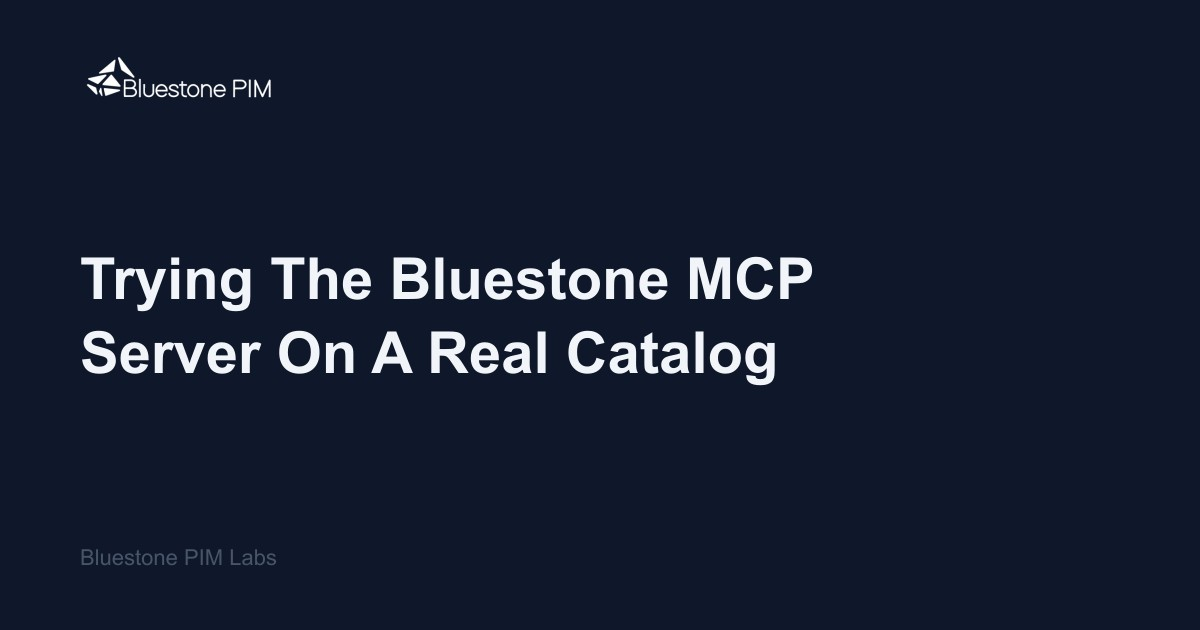
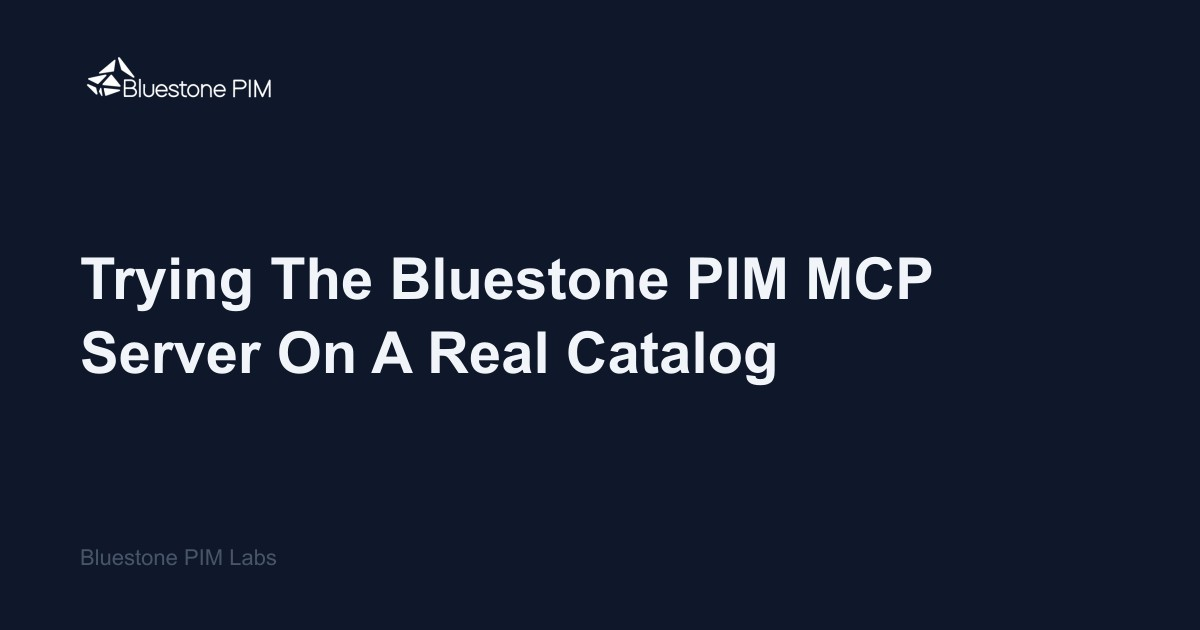
Bluestone>Bluestone PIM

Changed region(s): [[0.555, 0.3921, 0.8017, 0.4825]]

diff --git a/blog/trying-the-bluestone-mcp-server-on-a-real-catalog/index.html b/blog/trying-the-bluestone-mcp-server-on-a-real-catalog/index.html
@@ -3,23 +3,23 @@
 <head>
   <meta charset="utf-8">
   <meta name="viewport" content="width=device-width, initial-scale=1">
-  <title>Trying The Bluestone MCP Server On A Real Catalog — Bluestone PIM Labs</title>
-  <meta name="description" content="What happens when an AI assistant can browse Bluestone catalogs, compare draft and published data, switch language context, and fetch product images.">
+  <title>Trying The Bluestone PIM MCP Server On A Real Catalog — Bluestone PIM Labs</title>
+  <meta name="description" content="What happens when an AI assistant can browse Bluestone PIM catalogs, compare draft and published data, switch language context, and fetch product images.">
   <link rel="canonical" href="https://labs.bluestonepim.com/blog/trying-the-bluestone-mcp-server-on-a-real-catalog">
   <meta property="og:type" content="article">
   <meta property="og:site_name" content="Bluestone PIM Labs">
-  <meta property="og:title" content="Trying The Bluestone MCP Server On A Real Catalog — Bluestone PIM Labs">
-  <meta property="og:description" content="What happens when an AI assistant can browse Bluestone catalogs, compare draft and published data, switch language context, and fetch product images.">
+  <meta property="og:title" content="Trying The Bluestone PIM MCP Server On A Real Catalog — Bluestone PIM Labs">
+  <meta property="og:description" content="What happens when an AI assistant can browse Bluestone PIM catalogs, compare draft and published data, switch language context, and fetch product images.">
   <meta property="og:url" content="https://labs.bluestonepim.com/blog/trying-the-bluestone-mcp-server-on-a-real-catalog">
   <meta property="og:image" content="https://labs.bluestonepim.com/public/posts/trying-the-bluestone-mcp-server-on-a-real-catalog/og-image.jpg">
   <meta name="twitter:card" content="summary_large_image">
-  <meta name="twitter:title" content="Trying The Bluestone MCP Server On A Real Catalog — Bluestone PIM Labs">
-  <meta name="twitter:description" content="What happens when an AI assistant can browse Bluestone catalogs, compare draft and published data, switch language context, and fetch product images.">
+  <meta name="twitter:title" content="Trying The Bluestone PIM MCP Server On A Real Catalog — Bluestone PIM Labs">
+  <meta name="twitter:description" content="What happens when an AI assistant can browse Bluestone PIM catalogs, compare draft and published data, switch language context, and fetch product images.">
   <meta name="twitter:image" content="https://labs.bluestonepim.com/public/posts/trying-the-bluestone-mcp-server-on-a-real-catalog/og-image.jpg">
   <meta property="og:locale" content="en_US">
   <meta property="article:published_time" content="2026-04-28T12:00:00.000Z">
   <meta property="article:modified_time" content="2026-04-28T12:00:00.000Z">
-  <script type="application/ld+json">{"@context":"https://schema.org","@type":"BlogPosting","headline":"Trying The Bluestone MCP Server On A Real Catalog","url":"https://labs.bluestonepim.com/blog/trying-the-bluestone-mcp-server-on-a-real-catalog","image":"https://labs.bluestonepim.com/public/posts/trying-the-bluestone-mcp-server-on-a-real-catalog/og-image.jpg","publisher":{"@type":"Organization","name":"Bluestone PIM Labs","url":"https://labs.bluestonepim.com/"},"mainEntityOfPage":{"@type":"WebPage","@id":"https://labs.bluestonepim.com/blog/trying-the-bluestone-mcp-server-on-a-real-catalog"},"description":"What happens when an AI assistant can browse Bluestone catalogs, compare draft and published data, switch language context, and fetch product images.","datePublished":"2026-04-28T12:00:00.000Z","dateModified":"2026-04-28T12:00:00.000Z"}</script>
+  <script type="application/ld+json">{"@context":"https://schema.org","@type":"BlogPosting","headline":"Trying The Bluestone PIM MCP Server On A Real Catalog","url":"https://labs.bluestonepim.com/blog/trying-the-bluestone-mcp-server-on-a-real-catalog","image":"https://labs.bluestonepim.com/public/posts/trying-the-bluestone-mcp-server-on-a-real-catalog/og-image.jpg","publisher":{"@type":"Organization","name":"Bluestone PIM Labs","url":"https://labs.bluestonepim.com/"},"mainEntityOfPage":{"@type":"WebPage","@id":"https://labs.bluestonepim.com/blog/trying-the-bluestone-mcp-server-on-a-real-catalog"},"description":"What happens when an AI assistant can browse Bluestone PIM catalogs, compare draft and published data, switch language context, and fetch product images.","datePublished":"2026-04-28T12:00:00.000Z","dateModified":"2026-04-28T12:00:00.000Z"}</script>
   <link rel="icon" type="image/png" href="/public/bluestone_pim_logo.png">
   <link id="hljs-light" rel="stylesheet" href="https://cdnjs.cloudflare.com/ajax/libs/highlight.js/11.9.0/styles/github.min.css">
   <link id="hljs-dark"  rel="stylesheet" href="https://cdnjs.cloudflare.com/ajax/libs/highlight.js/11.9.0/styles/github-dark.min.css" disabled>
@@ -118,15 +118,15 @@
     </a>
 
     <article>
-      <div class="mb-10"><img src="/public/posts/trying-the-bluestone-mcp-server-on-a-real-catalog/banner.webp" alt="Trying The Bluestone MCP Server On A Real Catalog" class="w-full rounded-xl object-cover border border-slate-200 dark:border-slate-700/60" style="max-height:420px;" loading="eager"></div>
+      <div class="mb-10"><img src="/public/posts/trying-the-bluestone-mcp-server-on-a-real-catalog/banner.webp" alt="Trying The Bluestone PIM MCP Server On A Real Catalog" class="w-full rounded-xl object-cover border border-slate-200 dark:border-slate-700/60" style="max-height:420px;" loading="eager"></div>
       <header class="mb-10">
         <div class="flex flex-wrap items-center gap-2 mb-4">
           <span class="text-sm text-slate-400 dark:text-slate-500">28 Apr 2026</span><span class="text-slate-300 dark:text-slate-700">·</span>
         <span class="text-sm text-slate-400 dark:text-slate-500">8 min read</span>
         <span class="text-slate-300 dark:text-slate-700">·</span><span class="inline-block text-xs font-semibold px-2 py-0.5 rounded bg-blue-50 dark:bg-blue-950/50 text-blue-700 dark:text-blue-300 uppercase tracking-wide">mcp</span><span class="inline-block text-xs font-semibold px-2 py-0.5 rounded bg-blue-50 dark:bg-blue-950/50 text-blue-700 dark:text-blue-300 uppercase tracking-wide">ai</span><span class="inline-block text-xs font-semibold px-2 py-0.5 rounded bg-blue-50 dark:bg-blue-950/50 text-blue-700 dark:text-blue-300 uppercase tracking-wide">examples</span>
         </div>
-        <h1 class="text-3xl sm:text-4xl font-bold text-slate-900 dark:text-slate-100 leading-tight mb-4">Trying The Bluestone MCP Server On A Real Catalog</h1>
-        <p class="text-lg text-slate-500 dark:text-slate-400 leading-relaxed">What happens when an AI assistant can browse Bluestone catalogs, compare draft and published data, switch language context, and fetch product images.</p>
+        <h1 class="text-3xl sm:text-4xl font-bold text-slate-900 dark:text-slate-100 leading-tight mb-4">Trying The Bluestone PIM MCP Server On A Real Catalog</h1>
+        <p class="text-lg text-slate-500 dark:text-slate-400 leading-relaxed">What happens when an AI assistant can browse Bluestone PIM catalogs, compare draft and published data, switch language context, and fetch product images.</p>
       </header>
 
       <div class="border-t border-slate-200 dark:border-slate-800 mb-10"></div>
@@ -198,14 +198,14 @@ T-shirt - Yellow is in draft and not published.
 <p>This is the kind of check that is awkward in a normal UI but natural in chat. You can ask what is live, then ask how it differs from working state, and the assistant can keep the thread of the task.</p>
 <p>It also surfaces a practical distinction for builders: read tools should be clear about which layer they use. An enrichment assistant usually wants working state. A storefront QA assistant usually wants published state. A migration assistant may need both.</p>
 <h2>Fetch a product image</h2>
-<p>The <code>get_product_image</code> tool was added so an assistant can fetch a product image from the Bluestone CDN:</p>
+<p>The <code>get_product_image</code> tool was added so an assistant can fetch a product image from the Bluestone PIM CDN:</p>
 <pre><code class="language-text">User: Show me the product image from Bluestone PIM
 Assistant: The image is available. You can open it directly here: T-shirt - Green.
 </code></pre>
 <p>There is a client limitation hiding behind that simple exchange. MCP can return image content, but Claude Desktop currently shows the image inside the collapsed tool result panel rather than inline in the chat. The server works around this by telling the model to provide the direct image URL, so the user has something useful to click.</p>
 <p>That kind of detail matters when designing MCP tools. You are not only shaping data for an API consumer. You are shaping data for a model, a client UI, and a person reading the final answer.</p>
 <h2>Why this matters for partners and customers</h2>
-<p>The shared server is intentionally modest. It proves the connection pattern: OAuth, encrypted session tokens, a remote MCP endpoint, tool descriptions, response shaping, and a few working Bluestone operations.</p>
+<p>The shared server is intentionally modest. It proves the connection pattern: OAuth, encrypted session tokens, a remote MCP endpoint, tool descriptions, response shaping, and a few working Bluestone PIM operations.</p>
 <p>The interesting part is what a team can build from there:</p>
 <ul>
 <li>An enrichment assistant that checks naming patterns, missing translations, and incomplete images before a product goes live.</li>

diff --git a/blog/welcome-to-bluestone-labs/index.html b/blog/welcome-to-bluestone-labs/index.html
@@ -180,7 +180,7 @@
       <nav class="mt-14 pt-8 border-t border-slate-200 dark:border-slate-800">
         <div class="grid grid-cols-2 gap-6">
           <div></div>
-          <div class="text-right"><a href="/blog/trying-the-bluestone-mcp-server-on-a-real-catalog" class="group block no-underline"><div class="text-xs text-slate-400 dark:text-slate-500 mb-1">Newer →</div><div class="text-sm font-medium text-slate-700 dark:text-slate-300 group-hover:text-blue-600 dark:group-hover:text-blue-400 transition-colors leading-snug">Trying The Bluestone MCP Server On A Real Catalog</div></a></div>
+          <div class="text-right"><a href="/blog/trying-the-bluestone-mcp-server-on-a-real-catalog" class="group block no-underline"><div class="text-xs text-slate-400 dark:text-slate-500 mb-1">Newer →</div><div class="text-sm font-medium text-slate-700 dark:text-slate-300 group-hover:text-blue-600 dark:group-hover:text-blue-400 transition-colors leading-snug">Trying The Bluestone PIM MCP Server On A Real Catalog</div></a></div>
         </div>
       </nav>
     </article>

diff --git a/posts/trying-the-bluestone-mcp-server-on-a-real-catalog.md b/posts/trying-the-bluestone-mcp-server-on-a-real-catalog.md
@@ -1,7 +1,7 @@
 ---
-title: Trying The Bluestone MCP Server On A Real Catalog
+title: Trying The Bluestone PIM MCP Server On A Real Catalog
 date: 2026-04-28
-description: What happens when an AI assistant can browse Bluestone catalogs, compare draft and published data, switch language context, and fetch product images.
+description: What happens when an AI assistant can browse Bluestone PIM catalogs, compare draft and published data, switch language context, and fetch product images.
 tags: mcp, ai, examples
 heroImage: /public/posts/trying-the-bluestone-mcp-server-on-a-real-catalog/banner.webp
 ---
@@ -113,7 +113,7 @@ It also surfaces a practical distinction for builders: read tools should be clea
 
 ## Fetch a product image
 
-The `get_product_image` tool was added so an assistant can fetch a product image from the Bluestone CDN:
+The `get_product_image` tool was added so an assistant can fetch a product image from the Bluestone PIM CDN:
 
 ```text
 User: Show me the product image from Bluestone PIM
@@ -126,7 +126,7 @@ That kind of detail matters when designing MCP tools. You are not only shaping d
 
 ## Why this matters for partners and customers
 
-The shared server is intentionally modest. It proves the connection pattern: OAuth, encrypted session tokens, a remote MCP endpoint, tool descriptions, response shaping, and a few working Bluestone operations.
+The shared server is intentionally modest. It proves the connection pattern: OAuth, encrypted session tokens, a remote MCP endpoint, tool descriptions, response shaping, and a few working Bluestone PIM operations.
 
 The interesting part is what a team can build from there:
 
